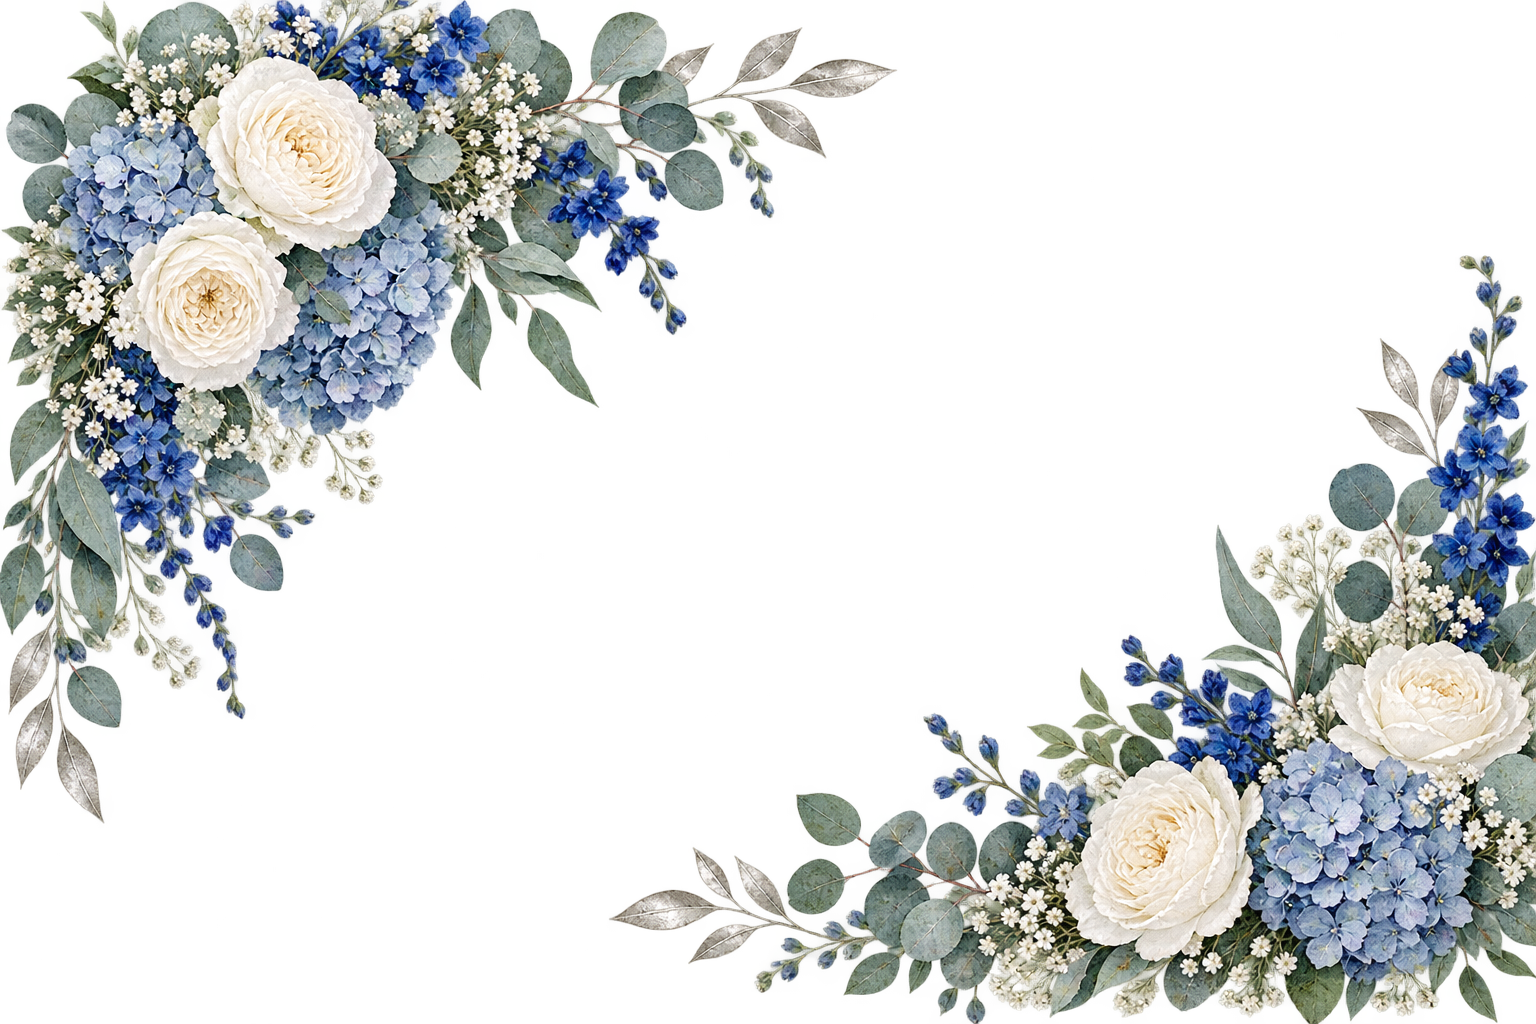
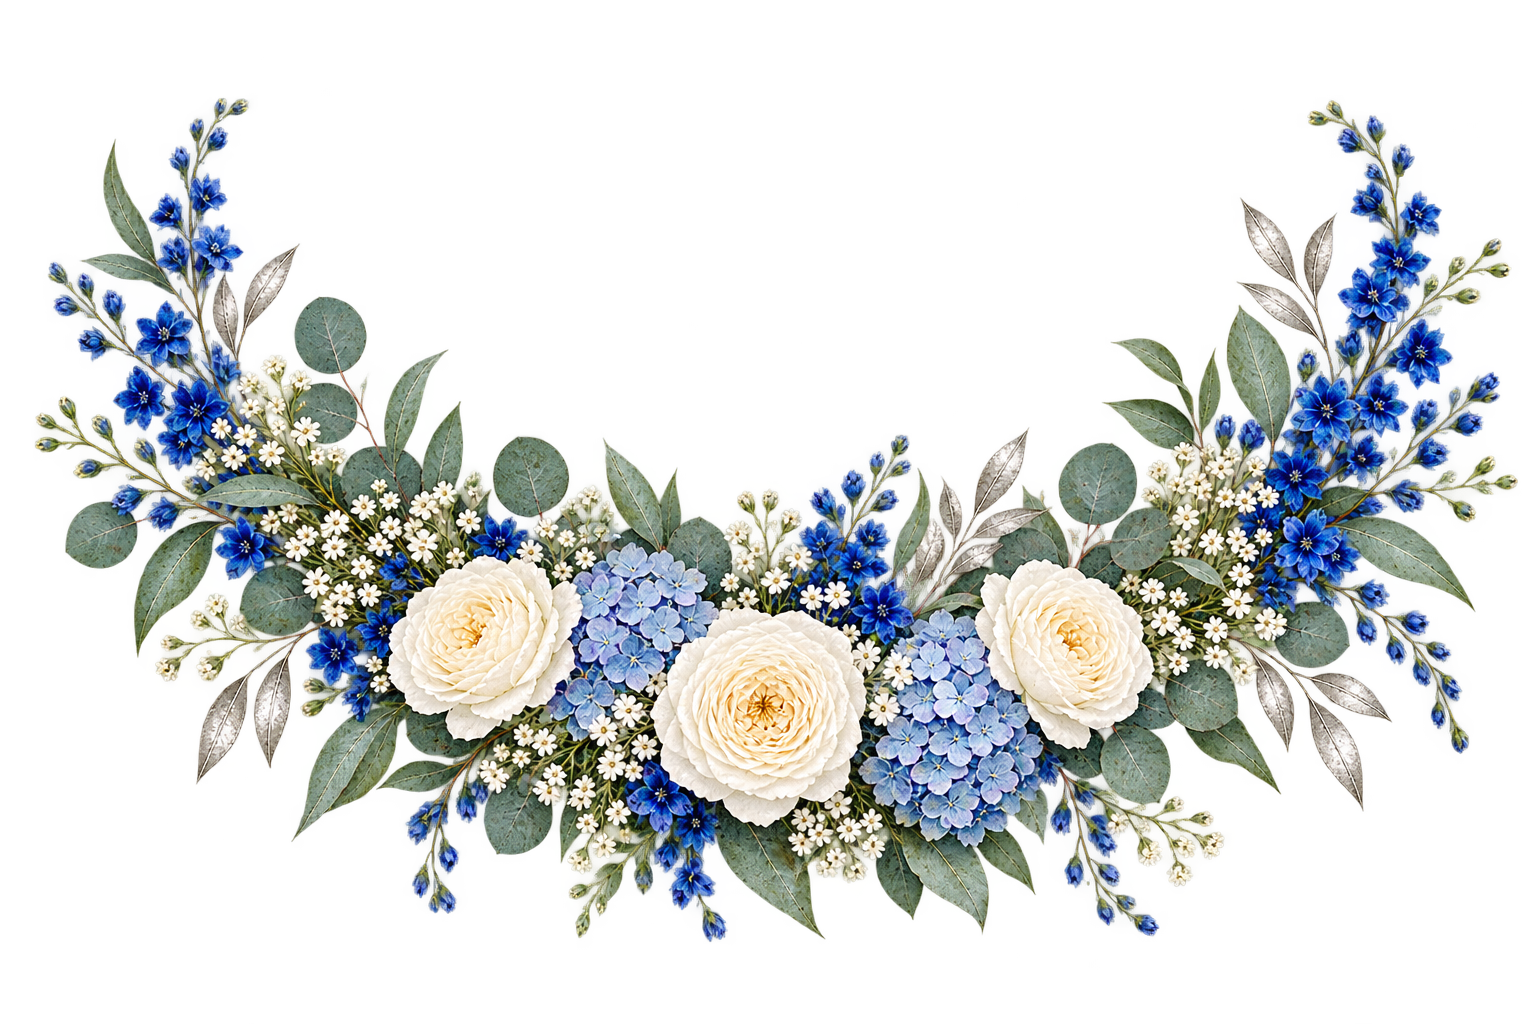
fix: corrige actualización de confirmaciones en el panel

diff --git a/components/panel/RsvpRealtime.js b/components/panel/RsvpRealtime.js
@@ -1,14 +1,35 @@
 "use client";
-import { collection, onSnapshot, orderBy, query } from "firebase/firestore";
-import { onAuthStateChanged } from "firebase/auth";
-import { useEffect, useMemo, useState } from "react";
-import { firebaseAuth, firebaseDb } from "@/lib/firebase/client";
+import { useCallback, useEffect, useMemo, useState } from "react";
 
 export function RsvpRealtime({ eventId, initialRsvps }) {
   const [items, setItems] = useState(initialRsvps); const [error, setError] = useState(""); const [filter, setFilter] = useState("all"); const [search, setSearch] = useState(""); const [selected, setSelected] = useState(null); const [saving, setSaving] = useState(false);
-  useEffect(() => { if (!firebaseAuth || !firebaseDb) return; let stopSnapshot = () => {}; const stopAuth = onAuthStateChanged(firebaseAuth, (user) => { stopSnapshot(); if (!user) return; const q = query(collection(firebaseDb, "events", eventId, "rsvps"), orderBy("createdAt", "desc")); stopSnapshot = onSnapshot(q, (snapshot) => { setItems(snapshot.docs.map((doc) => ({ id: doc.id, ...doc.data(), createdAt: doc.data().createdAt?.toDate?.().toISOString?.() || null }))); setError(""); }, (reason) => { setError(reason.code === "permission-denied" ? "Tu sesión de Firebase necesita renovarse para recibir actualizaciones en tiempo real." : "No fue posible actualizar las confirmaciones."); }); }); return () => { stopAuth(); stopSnapshot(); }; }, [eventId]);
+  const refresh = useCallback(async () => {
+    try {
+      const response = await fetch(`/api/panel/events/${eventId}/rsvps`, { credentials: "same-origin", cache: "no-store" });
+      const body = await response.json();
+      if (!response.ok) throw new Error(body.error || "No fue posible actualizar las confirmaciones.");
+      setItems(body.rsvps);
+      setError("");
+    } catch (cause) {
+      setError(cause.message || "No fue posible actualizar las confirmaciones.");
+    }
+  }, [eventId]);
+  useEffect(() => {
+    setItems(initialRsvps);
+    const timer = window.setInterval(refresh, 15000);
+    const onVisible = () => { if (document.visibilityState === "visible") refresh(); };
+    window.addEventListener("focus", refresh);
+    window.addEventListener("momently:rsvp-refresh", refresh);
+    document.addEventListener("visibilitychange", onVisible);
+    return () => {
+      window.clearInterval(timer);
+      window.removeEventListener("focus", refresh);
+      window.removeEventListener("momently:rsvp-refresh", refresh);
+      document.removeEventListener("visibilitychange", onVisible);
+    };
+  }, [initialRsvps, refresh]);
   const visible = useMemo(() => items.filter((item) => (filter === "all" || item.attending === filter) && item.name?.toLowerCase().includes(search.toLowerCase())), [items, filter, search]);
   const stats = useMemo(() => ({ responses: items.length, yes: items.filter((x) => x.attending === "yes").length, no: items.filter((x) => x.attending === "no").length, people: items.reduce((sum, x) => sum + Number(x.totalPeople || 0), 0), companions: items.reduce((sum, x) => sum + Number(x.companions || 0), 0) }), [items]);
-  const update = async (event) => { event.preventDefault(); setSaving(true); const form = new FormData(event.currentTarget); const payload = { name: form.get("name"), attending: form.get("attending"), companions: Number(form.get("companions")), menuPreference: form.get("menuPreference"), allergies: form.get("allergies"), message: form.get("message"), songTitle: form.get("songTitle"), artist: form.get("artist") }; const response = await fetch(`/api/panel/events/${eventId}/rsvps/${selected.id}`, { method: "PATCH", headers: { "Content-Type": "application/json" }, body: JSON.stringify(payload) }); setSaving(false); if (!response.ok) { const body = await response.json(); return setError(body.error); } setSelected(null); };
+  const update = async (event) => { event.preventDefault(); setSaving(true); const form = new FormData(event.currentTarget); const payload = { name: form.get("name"), attending: form.get("attending"), companions: Number(form.get("companions")), menuPreference: form.get("menuPreference"), allergies: form.get("allergies"), message: form.get("message"), songTitle: form.get("songTitle"), artist: form.get("artist") }; const response = await fetch(`/api/panel/events/${eventId}/rsvps/${selected.id}`, { method: "PATCH", headers: { "Content-Type": "application/json" }, body: JSON.stringify(payload) }); setSaving(false); if (!response.ok) { const body = await response.json(); return setError(body.error); } setSelected(null); await refresh(); };
   return <><div className="stats-grid stats-grid--five"><article><span>Respuestas</span><strong>{stats.responses}</strong></article><article><span>Confirmados</span><strong>{stats.yes}</strong></article><article><span>No asistirán</span><strong>{stats.no}</strong></article><article><span>Personas</span><strong>{stats.people}</strong></article><article><span>Acompañantes</span><strong>{stats.companions}</strong></article></div><section className="dashboard-card"><div className="dashboard-card__title"><div><h2>Confirmaciones</h2><p>Selecciona una respuesta para consultar o corregirla.</p></div><a className="button button--small" href={`/api/panel/events/${eventId}/export`}>Exportar CSV</a></div><div className="table-toolbar"><input placeholder="Buscar por nombre" value={search} onChange={(e) => setSearch(e.target.value)} /><select value={filter} onChange={(e) => setFilter(e.target.value)}><option value="all">Todos</option><option value="yes">Asistirán</option><option value="no">No asistirán</option></select></div>{error && <p className="form__error">{error}</p>}{visible.length ? <div className="responsive-table"><table><thead><tr><th>Nombre</th><th>Asistencia</th><th>Personas</th><th>Menú</th><th>Alergias</th><th>Mensaje</th><th>Fecha</th></tr></thead><tbody>{visible.map((item) => <tr className="clickable-row" key={item.id} onClick={() => setSelected(item)}><td><strong>{item.name}</strong></td><td><span className={`attendance attendance--${item.attending}`}>{item.attending === "yes" ? "Asistirá" : "No asistirá"}</span></td><td>{item.totalPeople} {item.totalPeople === 1 ? "persona" : "personas"}</td><td>{item.menuPreference || "—"}</td><td>{item.allergies || "—"}</td><td className="cell-message">{item.message || "—"}</td><td>{item.createdAt ? new Date(item.createdAt).toLocaleDateString("es-MX") : "—"}</td></tr>)}</tbody></table></div> : <div className="empty-state"><h3>Todavía no hay confirmaciones</h3><p>Cuando los invitados respondan, aparecerán aquí.</p></div>}</section>{selected && <div className="modal-backdrop" onMouseDown={() => setSelected(null)}><div className="modal-card panel-modal" onMouseDown={(e) => e.stopPropagation()}><button className="modal-x" onClick={() => setSelected(null)}>×</button><span className="dashboard-eyebrow">Detalle RSVP</span><h2>{selected.name}</h2><form className="form" onSubmit={update}><label>Nombre<input name="name" defaultValue={selected.name} required /></label><div className="form__two"><label>Asistencia<select name="attending" defaultValue={selected.attending}><option value="yes">Sí asistirá</option><option value="no">No asistirá</option></select></label><label>Acompañantes<input name="companions" type="number" min="0" max="20" defaultValue={selected.companions} /></label></div><label>Menú<select name="menuPreference" defaultValue={selected.menuPreference || "normal"}><option value="normal">Normal</option><option value="vegetarian">Vegetariano</option><option value="child">Infantil</option></select></label><label>Alergias<textarea name="allergies" defaultValue={selected.allergies} /></label><label>Mensaje<textarea name="message" defaultValue={selected.message} /></label><div className="form__two"><label>Canción<input name="songTitle" defaultValue={selected.songSuggestion?.title || ""} /></label><label>Artista<input name="artist" defaultValue={selected.songSuggestion?.artist || ""} /></label></div><button className="button" disabled={saving}>{saving ? "Guardando…" : "Guardar cambios"}</button></form></div></div>}</>;
 }

diff --git a/components/panel/ManualRsvp.js b/components/panel/ManualRsvp.js
@@ -1,4 +1,4 @@
 "use client";
 import { useState } from "react";
 import { useRouter } from "next/navigation";
-export function ManualRsvp({ eventId }) { const router = useRouter(); const [open, setOpen] = useState(false); const [error, setError] = useState(""); const save = async (event) => { event.preventDefault(); const form = new FormData(event.currentTarget); const payload = { name: form.get("name"), attending: form.get("attending"), companions: Number(form.get("companions")), menuPreference: form.get("menuPreference"), allergies: form.get("allergies"), message: form.get("message"), songTitle: "", artist: "", source: "panel" }; const response = await fetch(`/api/panel/events/${eventId}/rsvps`, { method: "POST", headers: { "Content-Type": "application/json" }, body: JSON.stringify(payload) }); const body = await response.json(); if (!response.ok) return setError(body.error); setOpen(false); router.refresh(); }; return <><button className="button button--small" onClick={() => setOpen(true)}>Agregar confirmación</button>{open && <div className="modal-backdrop" onMouseDown={() => setOpen(false)}><div className="modal-card panel-modal" onMouseDown={(e) => e.stopPropagation()}><button className="modal-x" onClick={() => setOpen(false)}>×</button><span className="dashboard-eyebrow">Registro manual</span><h2>Nueva confirmación</h2><form className="form" onSubmit={save}><label>Nombre<input name="name" required /></label><div className="form__two"><label>Asistencia<select name="attending"><option value="yes">Sí asistirá</option><option value="no">No asistirá</option></select></label><label>Acompañantes<input name="companions" type="number" min="0" max="20" defaultValue="0" /></label></div><label>Menú<select name="menuPreference"><option value="normal">Normal</option><option value="vegetarian">Vegetariano</option><option value="child">Infantil</option></select></label><label>Alergias<textarea name="allergies" /></label><label>Mensaje<textarea name="message" /></label>{error && <p className="form__error">{error}</p>}<button className="button">Guardar confirmación</button></form></div></div>}</>; }
+export function ManualRsvp({ eventId }) { const router = useRouter(); const [open, setOpen] = useState(false); const [error, setError] = useState(""); const save = async (event) => { event.preventDefault(); const form = new FormData(event.currentTarget); const payload = { name: form.get("name"), attending: form.get("attending"), companions: Number(form.get("companions")), menuPreference: form.get("menuPreference"), allergies: form.get("allergies"), message: form.get("message"), songTitle: "", artist: "", source: "panel" }; const response = await fetch(`/api/panel/events/${eventId}/rsvps`, { method: "POST", headers: { "Content-Type": "application/json" }, body: JSON.stringify(payload) }); const body = await response.json(); if (!response.ok) return setError(body.error); setOpen(false); window.dispatchEvent(new Event("momently:rsvp-refresh")); router.refresh(); }; return <><button className="button button--small" onClick={() => setOpen(true)}>Agregar confirmación</button>{open && <div className="modal-backdrop" onMouseDown={() => setOpen(false)}><div className="modal-card panel-modal" onMouseDown={(e) => e.stopPropagation()}><button className="modal-x" onClick={() => setOpen(false)}>×</button><span className="dashboard-eyebrow">Registro manual</span><h2>Nueva confirmación</h2><form className="form" onSubmit={save}><label>Nombre<input name="name" required /></label><div className="form__two"><label>Asistencia<select name="attending"><option value="yes">Sí asistirá</option><option value="no">No asistirá</option></select></label><label>Acompañantes<input name="companions" type="number" min="0" max="20" defaultValue="0" /></label></div><label>Menú<select name="menuPreference"><option value="normal">Normal</option><option value="vegetarian">Vegetariano</option><option value="child">Infantil</option></select></label><label>Alergias<textarea name="allergies" /></label><label>Mensaje<textarea name="message" /></label>{error && <p className="form__error">{error}</p>}<button className="button">Guardar confirmación</button></form></div></div>}</>; }

diff --git a/config/events/margarita-mateo.js b/config/events/margarita-mateo.js
@@ -16,23 +16,29 @@ export const margaritaMateo = {
   hero: {
     subtitle: "Nuestra boda",
     quote: "Hay momentos que se vuelven inolvidables cuando se comparten con las personas que queremos. Nos encantará celebrar este día contigo.",
-    image: "/images/events/margarita-mateo/hero.png",
+    image: "/images/events/margarita-mateo/foto-1.webp",
   },
   ceremony: {
     name: "Iglesia San Juan Bautista",
     time: "10:00 a. m.",
     address: "Iglesia San Juan Bautista, Coscomatepec, Veracruz",
     mapsUrl: "https://www.google.com/maps/search/?api=1&query=Iglesia+San+Juan+Bautista+Coscomatepec+Veracruz",
-    image: "/images/events/margarita-mateo/hero.png",
+    image: "/images/events/margarita-mateo/foto-2.webp",
   },
   reception: {
     name: "Salón La Terraza",
-    time: "Después de la ceremonia · horario por confirmar",
+    time: "3:00 p. m.",
     address: "Col. Nicanor Espejo, Coscomatepec, Veracruz",
     mapsUrl: "https://www.google.com/maps/search/?api=1&query=Salon+La+Terraza+Nicanor+Espejo+Coscomatepec+Veracruz",
-    image: "/images/events/margarita-mateo/hero.png",
+    image: "/images/events/margarita-mateo/foto-3.jpg",
   },
-  gallery: [],
+  gallery: [
+    { src: "/images/events/margarita-mateo/foto-1.webp", alt: "Margarita y Mateo compartiendo un momento especial" },
+    { src: "/images/events/margarita-mateo/foto-2.webp", alt: "Retrato de Margarita y Mateo" },
+    { src: "/images/events/margarita-mateo/foto-3.jpg", alt: "Margarita y Mateo celebrando su historia" },
+    { src: "/images/events/margarita-mateo/foto-4.jpg", alt: "Margarita y Mateo juntos" },
+    { src: "/images/events/margarita-mateo/foto-5.jpg", alt: "Un recuerdo de Margarita y Mateo" },
+  ],
   dressCode: {
     title: "Formal · Casual",
     text: "Elige un atuendo formal-casual con el que te sientas cómodo para celebrar con nosotros.",
@@ -54,7 +60,7 @@ export const margaritaMateo = {
   },
   itinerary: [
     { time: "10:00", title: "Ceremonia", description: "Iglesia San Juan Bautista", icon: "heart" },
-    { time: "Por confirmar", title: "Recepción", description: "Salón La Terraza", icon: "glass" },
+    { time: "15:00", title: "Recepción", description: "Salón La Terraza", icon: "glass" },
   ],
   theme: { primary: "#123b8f", dark: "#0b1d43", champagne: "#b9c2cf", cream: "#e8ecf3", ivory: "#fffdfa", rose: "#688bd1", sage: "#71858b" },
 };

diff --git a/app/api/panel/events/[eventId]/rsvps/route.js b/app/api/panel/events/[eventId]/rsvps/route.js
@@ -4,4 +4,30 @@ import { apiError, ValidationError } from "@/lib/errors";
 import { assertSameOrigin } from "@/lib/security/same-origin";
 import { panelRsvpSchema } from "@/lib/rsvp/schema";
 export const runtime = "nodejs";
+export async function GET(_request, { params }) {
+  try {
+    const { eventId } = await params;
+    const { ref } = await requireEventOwner(eventId);
+    const snapshot = await ref.collection("rsvps").orderBy("createdAt", "desc").limit(500).get();
+    const rsvps = snapshot.docs.map((doc) => {
+      const data = doc.data();
+      return {
+        id: doc.id,
+        name: data.name,
+        attending: data.attending,
+        companions: data.companions,
+        totalPeople: data.totalPeople,
+        menuPreference: data.menuPreference,
+        allergies: data.allergies,
+        message: data.message,
+        songSuggestion: data.songSuggestion,
+        source: data.source,
+        createdAt: data.createdAt?.toDate?.().toISOString?.() || null,
+      };
+    });
+    return Response.json({ rsvps }, { headers: { "Cache-Control": "no-store" } });
+  } catch (error) {
+    return apiError(error);
+  }
+}
 export async function POST(request, { params }) { try { assertSameOrigin(request); const { eventId } = await params; const { ref } = await requireEventOwner(eventId); const parsed = panelRsvpSchema.safeParse(await request.json()); if (!parsed.success) throw new ValidationError("Revisa los datos.", parsed.error.flatten().fieldErrors); const data = parsed.data; const now = FieldValue.serverTimestamp(); const rsvp = { name: data.name, nameNormalized: data.name.normalize("NFD").replace(/[\u0300-\u036f]/g, "").toLowerCase(), attending: data.attending, companions: data.attending === "yes" ? data.companions : 0, totalPeople: data.attending === "yes" ? data.companions + 1 : 0, menuPreference: data.menuPreference || null, allergies: data.allergies, message: data.message, songSuggestion: data.songTitle || data.artist ? { title: data.songTitle, artist: data.artist } : null, source: "panel", editTokenHash: null, createdAt: now, updatedAt: now }; const created = await ref.collection("rsvps").add(rsvp); return Response.json({ id: created.id }, { status: 201 }); } catch (error) { return apiError(error); } }

diff --git a/app/eventos/page.js b/app/eventos/page.js
@@ -16,7 +16,7 @@ export default function EventsPage() {
     </header>
     <section className={styles.grid}>
       <Link href="/eventos/margarita-y-mateo" className={styles.card}>
-        <Image src="/images/events/margarita-mateo/hero.png" fill sizes="(max-width: 800px) 100vw, 50vw" alt="Invitación de boda de Margarita y Mateo" />
+        <Image src="/images/events/margarita-mateo/foto-1.webp" fill sizes="(max-width: 800px) 100vw, 50vw" alt="Invitación de boda de Margarita y Mateo" />
         <div className={styles.overlay} />
         <div className={styles.copy}><small>Invitación personalizada</small><h2>Margarita & Mateo</h2><p>Azul rey · Plata · Marfil</p><strong>Ver invitación <span>→</span></strong></div>
       </Link>
